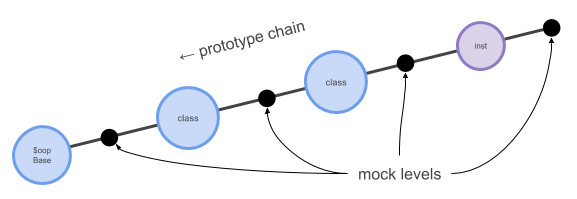
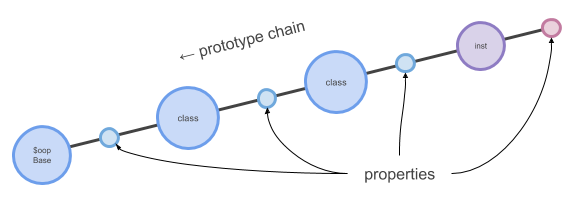
adds memoization & surrogates, type checking, & built-in mocks, updates mock levels png

diff --git a/src/oop.md b/src/oop.md
@@ -75,7 +75,7 @@ The base class `$oop.Base` implements the methods for classes to build their API
 
 > Each non-static class must have an `init` method, which is called on instantiation.
  
-The `init` method receives the arguments passed to the constructor and initializes the instance.
+This doesn't mean though that each class on an inheritance chain must override `.init()`, but there has to be at least one for instantiation can go though. The `init` method receives the arguments passed to the constructor and initializes the instance.
 
 > It is very important not to override class-building methods, such as `.extend()`, `.create()`, `.addMethods()`, etc.
 
@@ -173,7 +173,7 @@ who === pete
 who !== jen    
 ```
 
-> It is imperative that the instance IDs generated by the mapper function are actually identifying each instance, otherwise we might get unintended instances, or even completely inhibit the creation of certain instances.
+> It is imperative that the instance IDs generated by the mapper function are actually and unambiguously identifying each instance, otherwise we might get instances we didn't ask for, or even inhibit the creation of certain instances.
 
 This also implies a practice that is followed throughout Giant's code, and should be followed throughout the application as well:
 
@@ -267,11 +267,91 @@ The order in which surrogate filter functions are evaluated follow their additio
 Memoization with surrogates
 ---------------------------
 
-Reflection
-----------
+When combining surrogates and memoization, Giant follows these steps on instantiation:
+
+1. Find the class that will end up being instantiated, based on surrogate information.
+2. See if that class has an instance registry.
+3. Attempt to fetch existing instance, or create new one.
+
+This has a number of effects to watch out for.
+
+- Fetching instances of memoized subclasses that are instantiated via surrogates is slower than instantiating the subclass directly. Consider this in performance-critical situations.
+- The instance registry of a subclass hides the instance registry of the base class (if there is one). Though this is not expected to cause problems as long as memoization is set up unambiguously.
+
+Type checking
+-------------
+
+As class inheritance is based on JavaScript's prototype chain, but without constructor functions and the `new` keyword, most type checking is don via `Object.prototype.isPrototypeOf`. Giant introduces two wrappers around this function, in order to simplify type checking.
+
+Let's start with our usual classes.
+
+```js
+var Cat = $oop.Base.extend(),
+    Dog = $oop.Base.extend()
+    .addMethods({
+        init: function () {}    
+    });
+    
+var fido = Dog.create();
+```
+
+Both wrappers are methods on `$oop.Base`, but they're used differently depending on the context. The first, `.isA()` is more natural to use, but only in cases where we are sure that our variable exists and is actually a Giant class or instance. Otherwise we get an error.
+
+```js
+fido.isA(Dog); // true
+fido.isA(Cat); // false
+rover.isA(Dog); // throws error, saying 'rover' is undefined
+```
+
+The second wrapper, `.isBaseOf()`, is safer to use when we're checking variables that might be undefined.
+
+```js
+Dog.isBaseOf(fido); // true
+Cat.isBaseOf(fido); // false
+Dog.isBaseOf(rover); // false, though 'rover' is still undefined
+```
 
 Built-in mocks
 --------------
+
+Giant provides the least invasive mocking mechanism achievable in JavaScript. The class `$oop.Base` implements two methods for this purpose: `addMocks`, and `removeMocks`. The method `addMocks`, much like `.addMethods()`, adds methods to the class, but differently.
+
+In testing mode, extending a class by calling `.extend()` adds two prototype levels instead of one. Methods will go to the lower level, properties to the upper level (see figure). 
+
+![Mock Prototype Levels](https://raw.githubusercontent.com/giantjs/giant-developer-guide/master/images/Mock%20Levels.png)
+
+Now, what `.addMocks()` is doing, is adding methods on the properties' level. Any such method therefore:
+
+- can be added and removed without disturbing any of the class' current properties on *any* of its prototypes
+- will hide the method by the same name lower on the prototype chain
+
+When writing unit tests, one only needs to set Giant to testing mode, then add & remove mocks as needed.
+
+```js
+$oop.testing = true;
+
+var Dog = $oop.Base.create()
+    .addMethods({
+        init: function () {},
+        bark: function () {
+            alert("Woof!);
+        }
+    });
+    
+Dog.addMocks({
+    bark: function () {
+        assert(true, "bark was called");
+    }
+});
+
+var fido = Dog.create();
+
+fido.bark(); // asserts "bark was called"
+
+Dog.removeMocks();
+```
+
+> It is important to call `.removeMocks()` on classes and cached instances.
 
 Utilities
 ---------
